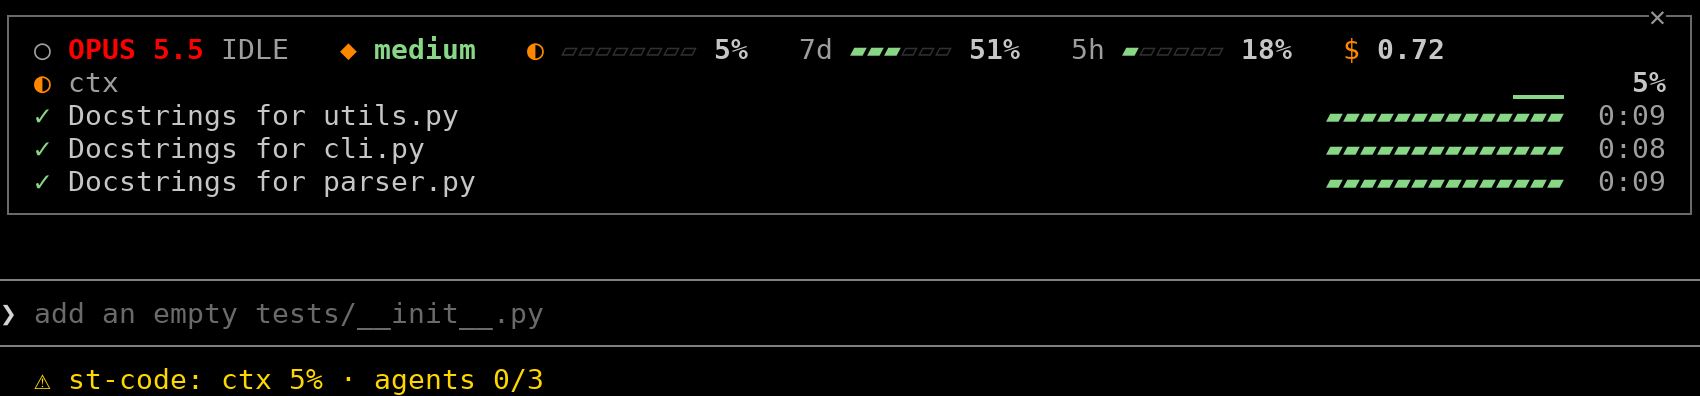
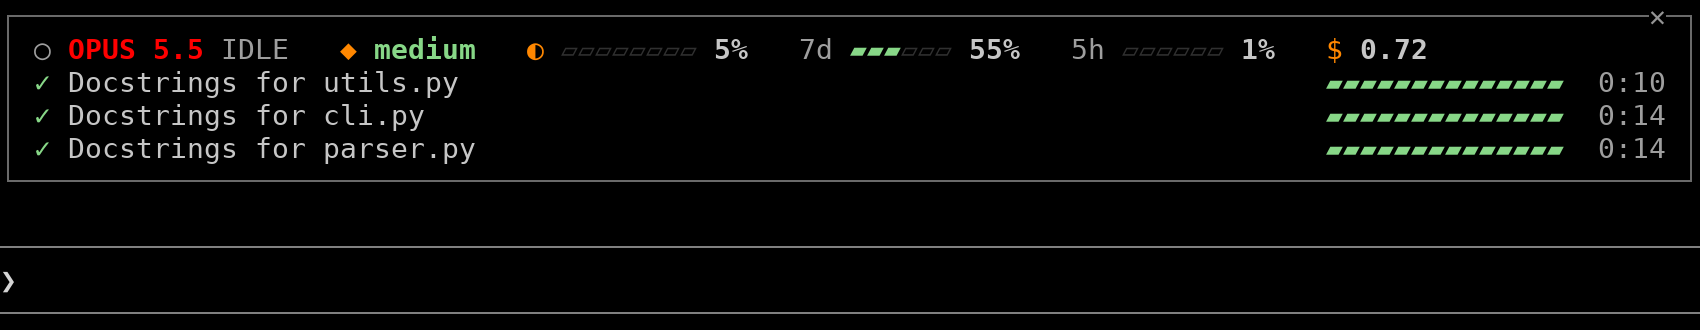
Recapture the media for 0.4.0

diff --git a/README.md b/README.md
@@ -10,7 +10,7 @@ consults, the busiest tools and files, and a session log. Every number comes fro
 your machine.
 
 <p align="center">
-  <img src="docs/media/demo.gif" alt="The st-code pane, docked at 66 columns, through a real three-subagent run: INFO switches to working, three agents appear in AGENTS with a bouncing bar while they run and a full green bar with a check once done, TOOLS &amp; FILES counts the calls and edited files, TRENDS draws the context and cost sparklines, and the LOG fills with spawns, tool calls and completions" width="528">
+  <img src="docs/media/demo.gif" alt="The st-code pane, docked at 66 columns, through a real three-subagent run: INFO switches to working, three agents appear in AGENTS with a bouncing bar while they run and a full green bar with a check once done, TOOLS &amp; FILES counts the calls and the files each agent edited, and the LOG fills with the prompt, spawns, edits and completions" width="528">
 </p>
 
 <p align="center">
@@ -51,15 +51,15 @@ releases. If something breaks after an update, see [Troubleshooting](#troublesho
 ## What you see
 
 <p align="center">
-  <img src="docs/media/docked-session.png" alt="A fullscreen session 160 columns wide: on the left, the transcript reports three finished subagents that added docstrings; on the right, the docked st-code pane shows the SERGIO'S TECH · CODE header over INFO, TRENDS, AGENTS with three finished agents, TOOLS &amp; FILES and LOG in one column, one failed Bash call marked in red; below the prompt, the status line reads st-code: ctx 5% · agents 0/3" width="820">
+  <img src="docs/media/docked-session.png" alt="A fullscreen session 160 columns wide: on the left, the transcript reports three finished subagents that added docstrings and lists each function's new docstring; on the right, the docked st-code pane shows the SERGIO'S TECH · CODE header over INFO, AGENTS with three finished agents, TOOLS &amp; FILES and LOG in one column" width="820">
 </p>
 
 | Two columns, in a 120-column dock | One column, in the default 66-column dock |
 | --- | --- |
-| <img src="docs/media/docked-wide.png" alt="The wide layout: INFO, TRENDS and TOOLS &amp; FILES stacked on the left, AGENTS on the right with three finished agents, and the LOG across the full width underneath, listing edits to tally/utils.py, tally/cli.py and tally/parser.py and the agents finishing" width="480"> | <img src="docs/media/compact.png" alt="The compact layout close up: INFO, TRENDS, AGENTS with three finished agents, TOOLS &amp; FILES and LOG stacked in one column under the header, with the gauges, sparklines and the one failed Bash call in red" width="300"> |
+| <img src="docs/media/docked-wide.png" alt="The wide layout: INFO and TOOLS &amp; FILES stacked on the left, AGENTS on the right with three finished agents, and the LOG across the full width underneath, listing edits to tally/cli.py and tally/parser.py and the agents finishing" width="480"> | <img src="docs/media/compact.png" alt="The compact layout close up: INFO, AGENTS with three finished agents, TOOLS &amp; FILES and LOG stacked in one column under the header, with the gauges and the reads and edits of each file" width="300"> |
 
 <p align="center">
-  <img src="docs/media/inline-mini.png" alt="A 100-column session with the summary inline above the prompt, in five rows: the model and its state, the effort, a context gauge, the 7-day and 5-hour limits and the session cost; a context sparkline; and three finished subagents, each with a check, a full green bar and its clock" width="620">
+  <img src="docs/media/inline-mini.png" alt="A 100-column session with the summary inline above the prompt, in four rows: the model and its state, the effort, a context gauge, the 7-day and 5-hour limits and the session cost; then three finished subagents, each with a check, a full green bar and its clock" width="620">
 </p>
 
 The header is one unfilled row on black. `▌SERGIO'S TECH · CODE` sits on the left. On the right are
